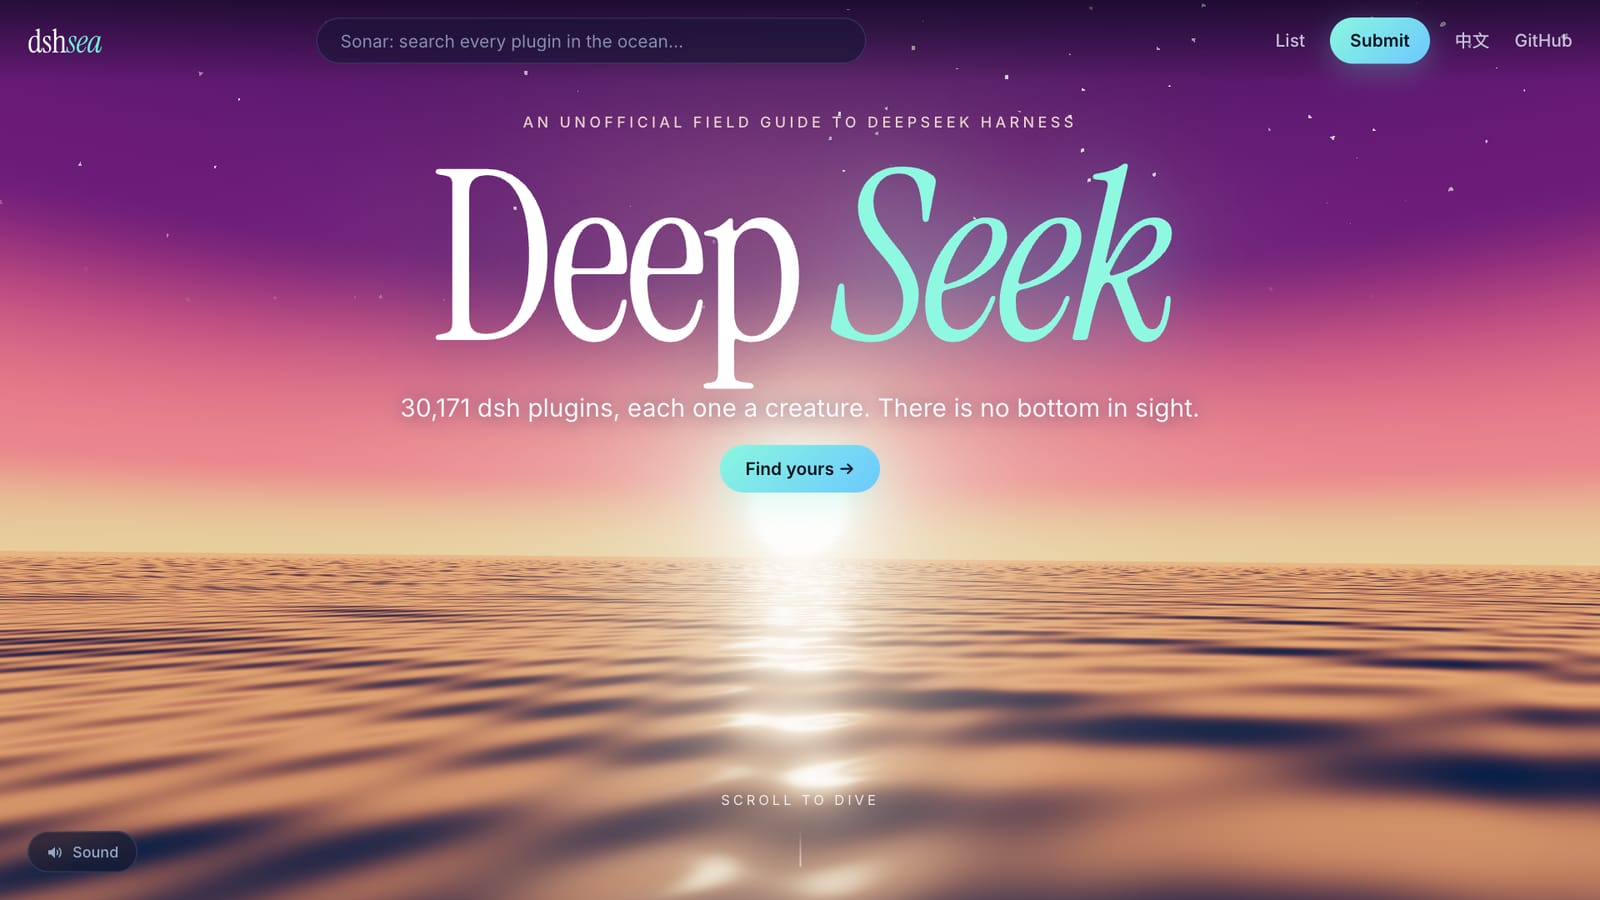
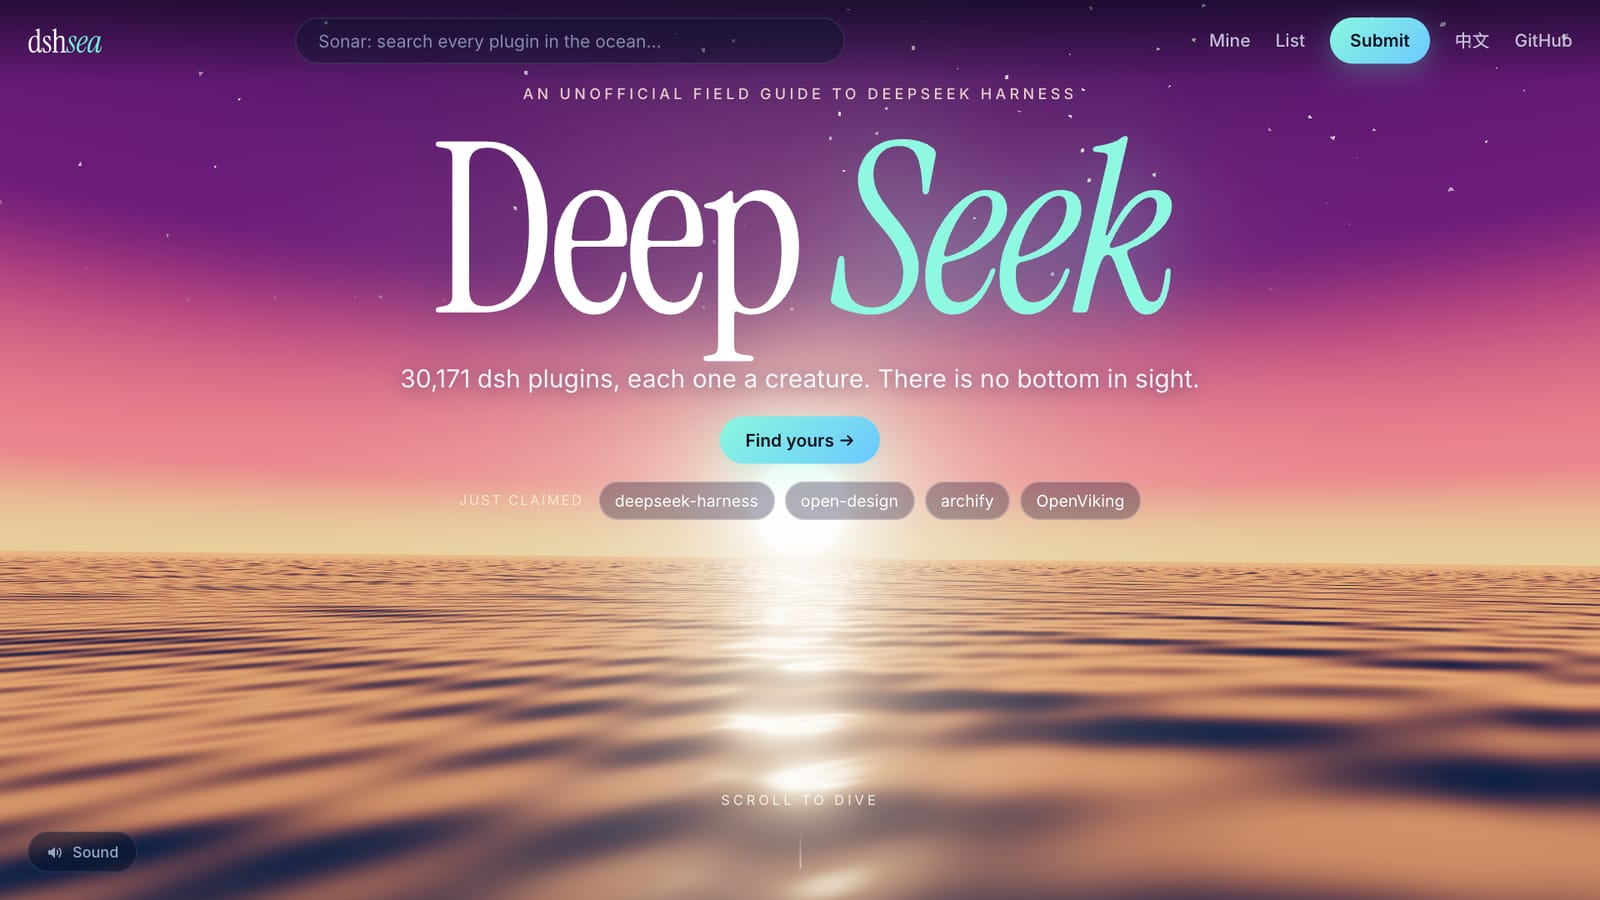
Welcome reef: put the newest claims where every dive begins
The eight most recently claimed creatures now swim right under the
surface, names lit and marked NEW, until newer claims take their place.
The home page names the latest four. The wild ocean starts at 260 m to
leave them room.

diff --git a/src/components/ocean3d.ts b/src/components/ocean3d.ts
@@ -20,9 +20,12 @@ type Creature = {
   group: THREE.Group; mesh: THREE.Mesh; mat: THREE.ShaderMaterial; halo: THREE.Sprite; label: THREE.Sprite;
   base: THREE.Vector3; az: number; frac: number; size: number; shape: THREE.Vector3; phase: number; speed: number; swims: boolean;
   hay: string; near: number; revealAt: number; spinAt: number; known: boolean; screen: Screen;
+  /** Welcome reef: the depth this copy is pinned at, instead of where the creature really lives. */
+  pin: number | null;
 };
 type Payload = {
   base: string;
+  fresh: Row[];
   meta: { count: number; chunk: number; landmarks: [number, string, number][] };
   claimed: Record<string, number>;
   t: Record<string, any>;
@@ -30,7 +33,7 @@ type Payload = {
 
 const K = 0.053; // world units per metre
 const START_DEPTH = -34; // the diver starts above the water
-const GHOST_DEPTH = 90;
+const GHOST_DEPTH = 244; // just below the welcome reef
 const WINDOW = 820; // metres of ocean kept alive above and below the diver
 const LOG_KEY = 'dshsea-log-v1';
 
@@ -343,9 +346,10 @@ export async function initOcean3D() {
     // Wider than the view: there is always more off to the side if you look around.
     c.az = (u * 2 - 1) * spread;
     const r = (portrait ? 15 : 9.5) + c.frac * (portrait ? 17 : 10) + c.size * 1.2;
-    c.base.set(Math.sin(c.az) * r, -c.depth * K + (frac(c.index * 0.377) - 0.5) * 1.2, -Math.cos(c.az) * r);
+    c.base.set(Math.sin(c.az) * r, -(c.pin ?? c.depth) * K + (frac(c.index * 0.377) - 0.5) * 1.2, -Math.cos(c.az) * r);
   }
-  function spawn(index: number, row: Row) {
+  /** `pin` puts a copy of a claimed creature on the welcome reef (index < 0) at that depth. */
+  function spawn(index: number, row: Row, pin: number | null = null) {
     const repoOrUrl = row[0];
     const isUrl = repoOrUrl.startsWith('http');
     const key = repoOrUrl.toLowerCase().replace(/\/$/, '');
@@ -369,7 +373,8 @@ export async function initOcean3D() {
     }));
     halo.scale.setScalar(Math.min(size * 5, 9));
     halo.renderOrder = -1;
-    const { tex, aspect } = labelTexture(name, `★ ${fmtStars(stars)}`);
+    const { tex, aspect } = labelTexture(name, pin === null ? `★ ${fmtStars(stars)}` : `✦ ${t.reefTag} · ★ ${fmtStars(stars)}`);
+    if (pin !== null) (halo.material as THREE.SpriteMaterial).color.set(0xffd27a);
     const label = new THREE.Sprite(labelMaterial(tex));
     label.scale.set(aspect, 1, 1);
     label.position.y = -size * spec.drop - 0.75;
@@ -378,7 +383,7 @@ export async function initOcean3D() {
     group.add(halo, label);
     scene.add(group);
     const c: Creature = {
-      index, key, name, desc, stars, depth: depthOf(index), url: isUrl ? repoOrUrl : `https://github.com/${repoOrUrl}`, repo: isUrl ? null : repoOrUrl,
+      index, key, name, desc, stars, pin, depth: depthOf(pin === null ? index : payload.claimed[row[3]!] ?? 0), url: isUrl ? repoOrUrl : `https://github.com/${repoOrUrl}`, repo: isUrl ? null : repoOrUrl,
       slug: row[3] ?? null, species: tr.species, rarity: tr.rarity, hue: tr.hue,
       group, mesh, mat, halo, label, base: new THREE.Vector3(), az: 0, frac: frac(index * 0.7548776662), size, shape, phase,
       speed: 0.2 + ((tr.hue * 7) % 100) / 520, swims: spec.swims, near: 0, revealAt: -99, spinAt: -99, known: !!log.seen[key], screen: null,
@@ -387,7 +392,7 @@ export async function initOcean3D() {
     place(c);
     group.position.copy(c.base);
     live.set(index, c);
-    if (pendingOpen === index) {
+    if (pendingOpen >= 0 && pendingOpen === index) {
       pendingOpen = -1;
       openCard(c);
     }
@@ -781,7 +786,16 @@ export async function initOcean3D() {
         budget--;
       }
     }
-    for (const c of live.values()) if (c.index < i0 - 6 || c.index > i1 + 6) despawn(c);
+    // The welcome reef: the newest claims, pinned where every dive begins.
+    if (!above && camDepth < 700) {
+      let budget = 2;
+      for (let k = 0; k < payload.fresh.length && budget > 0; k++) {
+        if (live.has(-1 - k)) continue;
+        spawn(-1 - k, payload.fresh[k], 44 + k * 26);
+        budget--;
+      }
+    }
+    for (const c of live.values()) if (c.pin !== null ? camDepth > 1000 : c.index < i0 - 6 || c.index > i1 + 6) despawn(c);
 
     for (const c of live.values()) {
       c.group.visible = !above;
@@ -813,14 +827,15 @@ export async function initOcean3D() {
       const reveal = clamp(1 - (time - c.revealAt) / 6, 0, 1);
       // Identifying a creature takes light: the lamp, a sonar ping, or meeting it up close.
       if (!c.known && (lampNear > 0.55 || reveal > 0.9)) discover(c);
-      const deepGlow = 0.1 + 0.75 * smooth(150, 2600, c.depth);
+      const deepGlow = 0.1 + 0.75 * smooth(150, 2600, c.pin ?? c.depth);
       c.mat.uniforms.uGlow.value = Math.min(1.1, deepGlow + c.near * 0.18 + lampNear * 0.2 + reveal * 0.25 + (query && isMatch ? 0.3 + Math.sin(time * 5) * 0.15 : 0));
       c.mat.uniforms.uDim.value += ((isMatch ? 0 : 0.88) - c.mat.uniforms.uDim.value) * 0.15;
       const s = (c.screen = toScreen(g, c.size));
       const dist = s ? s.d : 99;
-      (c.halo.material as THREE.SpriteMaterial).opacity = isMatch ? (0.04 + deepGlow * 0.2 + c.near * 0.08 + reveal * 0.1) * (0.35 + 0.65 * smooth(70, 12, dist)) : 0;
+      (c.halo.material as THREE.SpriteMaterial).opacity = isMatch ? (0.04 + (c.pin !== null ? 0.16 : deepGlow * 0.2) + c.near * 0.08 + reveal * 0.1) * (0.35 + 0.65 * smooth(70, 12, dist)) : 0;
       // Names stay hidden until a creature has been discovered.
-      const nearLabel = c.known ? (mobile ? smooth(38, 24, dist) : smooth(22, 13, dist)) : 0;
+      // ...except on the welcome reef, where the newcomers are introduced to everyone.
+      const nearLabel = c.pin !== null ? smooth(46, 30, dist) : c.known ? (mobile ? smooth(38, 24, dist) : smooth(22, 13, dist)) : 0;
       const lm = c.label.material as THREE.SpriteMaterial;
       lm.opacity += ((isMatch ? Math.max(nearLabel, c.near, reveal, lampNear, query ? 1 : 0) : 0.08) - lm.opacity) * ease(6);
     }

diff --git a/src/lib/i18n.ts b/src/lib/i18n.ts
@@ -9,6 +9,9 @@ const en = {
   heroTitle2: 'Seek',
   heroSub: (n: string) => `${n} dsh plugins, each one a creature. There is no bottom in sight.`,
   heroCta: 'Find yours',
+  justClaimed: 'Just claimed',
+  reefTag: 'NEW',
+  reefNote: 'The eight most recently claimed creatures swim right under the surface, where every diver enters.',
   scrollHint: 'scroll to dive',
   navList: 'List',
   navMe: 'Mine',
@@ -132,7 +135,7 @@ const en = {
   step2: 'Open a PR',
   step2Body: 'Add data/projects/your-project.yaml. CI checks the format in seconds; we merge anything real, public and related to DeepSeek Harness.',
   step3: 'Make it yours',
-  step3Body: 'Claimed creatures get their own page, a share card, a README badge, your own description, and the species you pick.',
+  step3Body: 'Claimed creatures get their own page, a share card, a README badge, your own description, and the species you pick. New claims also swim right under the surface, where every diver enters, and are named on the home page.',
   openPr: 'Create the file on GitHub',
   speciesTitle: 'Pick your species',
   speciesSub: 'Wild creatures get a species by chance, weighted by stars. Claim yours and you can choose any of these with the species field. Stars still decide size; age decides depth.',
@@ -172,6 +175,9 @@ const zh: typeof en = {
   heroTitle2: 'Seek',
   heroSub: (n: string) => `${n} 个 dsh 插件，每个都是一只生物。这片海没有底。`,
   heroCta: '找到我的那只',
+  justClaimed: '刚刚认领',
+  reefTag: '新',
+  reefNote: '最近认领的 8 只生物会游在海面正下方，也就是每个潜水员入水的地方。',
   scrollHint: '向下滚动下潜',
   navList: '列表',
   navMe: '我的',
@@ -294,7 +300,7 @@ const zh: typeof en = {
   step2: '提交 PR',
   step2Body: '新建 data/projects/your-project.yaml。CI 几秒内检查格式，只要项目真实、公开、和 DeepSeek Harness 相关就会合并。',
   step3: '变成你的',
-  step3Body: '认领后的生物拥有独立页面、分享卡片、README 徽章、你自己写的简介，以及你挑选的物种。',
+  step3Body: '认领后的生物拥有独立页面、分享卡片、README 徽章、你自己写的简介，以及你挑选的物种。新认领的还会游在海面正下方（每个人入水的地方），并出现在首页。',
   openPr: '在 GitHub 上创建文件',
   speciesTitle: '挑选你的物种',
   speciesSub: '野生生物的物种是随机的，按 star 加权。认领之后，你可以用 species 字段从下面任选一种。star 依然决定体型，年龄决定深度。',

diff --git a/src/lib/projects.ts b/src/lib/projects.ts
@@ -63,6 +63,13 @@ export function getCatalog() {
   return (cache ??= build());
 }
 export const getProjects = () => getCatalog().projects;
+/**
+ * The welcome reef: the most recently claimed creatures swim just under the surface, where every
+ * diver enters, until newer claims take their place. Ties on the date go to the bigger project.
+ */
+export const REEF_SIZE = 8;
+export const getFresh = () =>
+  [...getProjects()].sort((a, b) => b.added.localeCompare(a.added) || b.stars - a.stars || a.slug.localeCompare(b.slug)).slice(0, REEF_SIZE);
 
 /** A chunk of the ocean as the browser receives it. Wild rows are [repo, stars, desc]; claimed rows carry more. */
 export function chunkRows(n: number) {

diff --git a/src/lib/species.ts b/src/lib/species.ts
@@ -68,7 +68,8 @@ export const tintDeg = (hue: number) => (((hue - REF_HUE) % 360) + 360) % 360;
 export const tintStyle = (hue: number) => `--tint:${tintDeg(hue)}deg`;
 
 // Depth is seniority and has no floor: every project sits STEP metres below the next newer one.
-export const DEPTH_START = 200;
+// The first 260 m are kept clear for the welcome reef (the newest claims) and the "your project?" ghost.
+export const DEPTH_START = 260;
 export const DEPTH_STEP = 32;
 export const depthOf = (index: number) => DEPTH_START + index * DEPTH_STEP;
 

diff --git a/README.ja.md b/README.ja.md
@@ -11,7 +11,7 @@ DeepSeek Harness のプラグインは、底なしの海のどこかにいる生
 | | |
 | --- | --- |
 | [![](docs/shallow.jpg)](https://dshsea.com) | [![](docs/deep.jpg)](https://dshsea.com) |
-| **潜る。** スクロールやスワイプ、あるいはボタンを押し続けて何キロも落ちていきます。名前は、ライトかソナーが当たるまで隠れています。 | **底は見えない。** いちばん新しいプラグインは水深 200 m。古くなるごとに 32 m ずつ深くなり、水の色も変わっていきます。 |
+| **潜る。** スクロールやスワイプ、あるいはボタンを押し続けて何キロも落ちていきます。名前は、ライトかソナーが当たるまで隠れています。 | **底は見えない。** いちばん新しいプラグインは水深 260 m。古くなるごとに 32 m ずつ深くなり、水の色も変わっていきます。 |
 | [![](docs/sonar.jpg)](https://dshsea.com) | [![](docs/card.jpg)](https://dshsea.com) |
 | **ソナー。** すべてのプラグインを名前で検索して、その場所へ直行できます。 | **出会う。** どの生き物もリポジトリにリンクし、進化まであと何スター必要かを示します。作者は自分のものとして登録できます。 |
 | [![](docs/field-guide.jpg)](https://dshsea.com) | [![](docs/bounty.jpg)](https://dshsea.com) |
@@ -24,7 +24,7 @@ DeepSeek Harness のプラグインは、底なしの海のどこかにいる生
 ## 生き物の集まり方
 
 - **野生の生き物。** 週 1 回の GitHub Action が `dsh-plugin` トピックのリポジトリをすべて `data/wild.json` に取り込み、自動的に海に現れます。
-- **登録済みの生き物。** 作者が [`data/projects/`](data/projects) に YAML ファイルを 1 つ追加して PR を送ると登録できます。専用ページ、共有カード、バッジが付き、種も選べます。詳しくは [CONTRIBUTING.md](CONTRIBUTING.md) を参照してください。
+- **登録済みの生き物。** 作者が [`data/projects/`](data/projects) に YAML ファイルを 1 つ追加して PR を送ると登録できます。専用ページ、共有カード、バッジが付き、種も選べます。さらに、直近に登録された 8 匹は**ウェルカムリーフ**（全員が潜り始める水面直下）を泳ぎ、トップページにも名前が載ります。詳しくは [CONTRIBUTING.md](CONTRIBUTING.md) を参照してください。
 
 ## 参加する
 

diff --git a/README.ko.md b/README.ko.md
@@ -11,7 +11,7 @@ DeepSeek Harness 플러그인은 모두 끝없는 바다 어딘가에 사는 생
 | | |
 | --- | --- |
 | [![](docs/shallow.jpg)](https://dshsea.com) | [![](docs/deep.jpg)](https://dshsea.com) |
-| **잠수.** 스크롤하거나 밀어 올리거나, 버튼을 누른 채로 몇 킬로미터씩 내려갑니다. 이름은 조명이나 소나가 닿기 전까지 숨겨져 있습니다. | **바닥이 보이지 않습니다.** 가장 새로운 플러그인은 수심 200 m에 있고, 오래될수록 32 m씩 더 깊이 삽니다. 내려갈수록 물빛도 달라집니다. |
+| **잠수.** 스크롤하거나 밀어 올리거나, 버튼을 누른 채로 몇 킬로미터씩 내려갑니다. 이름은 조명이나 소나가 닿기 전까지 숨겨져 있습니다. | **바닥이 보이지 않습니다.** 가장 새로운 플러그인은 수심 260 m에 있고, 오래될수록 32 m씩 더 깊이 삽니다. 내려갈수록 물빛도 달라집니다. |
 | [![](docs/sonar.jpg)](https://dshsea.com) | [![](docs/card.jpg)](https://dshsea.com) |
 | **소나.** 모든 플러그인을 이름으로 검색해 바로 그곳으로 이동합니다. | **만나기.** 각 생물은 자기 저장소로 연결되고, 진화까지 필요한 스타 수를 보여 주며, 작성자가 등록할 수 있습니다. |
 | [![](docs/field-guide.jpg)](https://dshsea.com) | [![](docs/bounty.jpg)](https://dshsea.com) |
@@ -24,7 +24,7 @@ DeepSeek Harness 플러그인은 모두 끝없는 바다 어딘가에 사는 생
 ## 생물이 모이는 방식
 
 - **야생 생물.** 매주 실행되는 GitHub Action이 `dsh-plugin` 토픽이 붙은 모든 저장소를 `data/wild.json`으로 수집하고, 자동으로 바다에 나타납니다.
-- **등록된 생물.** 작성자가 [`data/projects/`](data/projects)에 YAML 파일 하나를 추가해 PR을 보내면 등록됩니다. 전용 페이지, 공유 카드, 배지가 생기고 종도 고를 수 있습니다. 자세한 내용은 [CONTRIBUTING.md](CONTRIBUTING.md)를 참고하세요.
+- **등록된 생물.** 작성자가 [`data/projects/`](data/projects)에 YAML 파일 하나를 추가해 PR을 보내면 등록됩니다. 전용 페이지, 공유 카드, 배지가 생기고 종도 고를 수 있습니다. 가장 최근에 등록된 8마리는 **웰컴 리프**(모든 다이버가 잠수를 시작하는 수면 바로 아래)에서 헤엄치고, 홈 화면에도 이름이 실립니다. 자세한 내용은 [CONTRIBUTING.md](CONTRIBUTING.md)를 참고하세요.
 
 ## 참여하기
 

diff --git a/README.md b/README.md
@@ -11,7 +11,7 @@ Every DeepSeek Harness plugin is a creature somewhere in a bottomless ocean: mor
 | | |
 | --- | --- |
 | [![](docs/shallow.jpg)](https://dshsea.com) | [![](docs/deep.jpg)](https://dshsea.com) |
-| **Dive.** Scroll, swipe, or hold the button and fall for kilometres. Names stay hidden until your lamp or a sonar ping identifies a creature. | **No bottom in sight.** The newest plugin swims at 200 m; every older one lives 32 m deeper. The water changes colour as you go. |
+| **Dive.** Scroll, swipe, or hold the button and fall for kilometres. Names stay hidden until your lamp or a sonar ping identifies a creature. | **No bottom in sight.** The newest plugin swims at 260 m; every older one lives 32 m deeper. The water changes colour as you go. |
 | [![](docs/sonar.jpg)](https://dshsea.com) | [![](docs/card.jpg)](https://dshsea.com) |
 | **Sonar.** Search every plugin by name and jump straight to it. | **Meet it.** Each creature links to its repo, shows how many stars it needs to evolve, and can be claimed by its author. |
 | [![](docs/field-guide.jpg)](https://dshsea.com) | [![](docs/bounty.jpg)](https://dshsea.com) |
@@ -24,7 +24,7 @@ Also in the water: **bottles** (leave a note at any depth for the next diver) an
 ## How it fills up
 
 - **Wild creatures.** A weekly GitHub Action crawls every repo tagged `dsh-plugin` into `data/wild.json`. They all appear in the ocean automatically.
-- **Claimed creatures.** Authors claim theirs by adding one YAML file under [`data/projects/`](data/projects) in a PR. Claimed creatures get a page, a share card, a badge and a species of their choice. See [CONTRIBUTING.md](CONTRIBUTING.md).
+- **Claimed creatures.** Authors claim theirs by adding one YAML file under [`data/projects/`](data/projects) in a PR. Claimed creatures get a page, a share card, a badge and a species of their choice. The eight newest claims also swim on the **welcome reef**, right under the surface where every diver enters, and are named on the home page. See [CONTRIBUTING.md](CONTRIBUTING.md).
 
 ## Contributing
 

diff --git a/README.zh-CN.md b/README.zh-CN.md
@@ -11,7 +11,7 @@
 | | |
 | --- | --- |
 | [![](docs/shallow.jpg)](https://dshsea.com) | [![](docs/deep.jpg)](https://dshsea.com) |
-| **下潜。** 滚轮、滑动，或者按住按钮一路坠落几公里。生物的名字默认隐藏，被你的灯或声呐照到才会显示。 | **看不到底。** 最新的插件游在 200 米，每老一个就再深 32 米。越往下，水色也在变。 |
+| **下潜。** 滚轮、滑动，或者按住按钮一路坠落几公里。生物的名字默认隐藏，被你的灯或声呐照到才会显示。 | **看不到底。** 最新的插件游在 260 米，每老一个就再深 32 米。越往下，水色也在变。 |
 | [![](docs/sonar.jpg)](https://dshsea.com) | [![](docs/card.jpg)](https://dshsea.com) |
 | **声呐。** 按名字搜索任何一个插件，直接传送过去。 | **认识它。** 每只生物都链接到自己的仓库，显示还差多少 star 进化，作者可以认领。 |
 | [![](docs/field-guide.jpg)](https://dshsea.com) | [![](docs/bounty.jpg)](https://dshsea.com) |
@@ -24,7 +24,7 @@
 ## 生物从哪来
 
 - **野生生物。** 每周一次的 GitHub Action 会把所有带 `dsh-plugin` topic 的仓库抓进 `data/wild.json`，它们会自动出现在海里。
-- **已认领的生物。** 作者在 [`data/projects/`](data/projects) 下加一个 YAML 文件并提 PR 即可认领。认领后拥有独立页面、分享卡片、徽章，还能自选物种。详见 [CONTRIBUTING.md](CONTRIBUTING.md)。
+- **已认领的生物。** 作者在 [`data/projects/`](data/projects) 下加一个 YAML 文件并提 PR 即可认领。认领后拥有独立页面、分享卡片、徽章，还能自选物种。最新认领的 8 只还会出现在**迎新礁**：海面正下方、每个潜水员入水的地方，并在首页点名。详见 [CONTRIBUTING.md](CONTRIBUTING.md)。
 
 ## 参与
 

diff --git a/CONTRIBUTING.md b/CONTRIBUTING.md
@@ -13,6 +13,7 @@ Every wild creature has a page at `dshsea.com/r/<owner>/<repo>` that links to th
 - their own page (`dshsea.com/p/<name>`), share card and README badge
 - your own description, in English and optionally Chinese
 - the species you pick
+- a spell on the **welcome reef**: the eight most recently claimed creatures swim right under the surface, where every diver enters, with their names lit, and are listed on the home page until newer claims take their place
 
 To claim, add one YAML file to [`data/projects/`](data/projects) and open a pull request. The quickest way is the **Claim it** button on a creature's card, or [dshsea.com/submit](https://dshsea.com/submit).
 
@@ -46,7 +47,7 @@ x: your_x_handle
 
 - **Species.** Wild creatures get one by chance, from a pool that depends on stars: common (under 20), rare (20+), epic (1,000+). Claimed creatures can pick any of these with `species`: `fish`, `jellyfish`, `seahorse`, `pufferfish`, `eel`, `crab`, `starfish`, `shrimp`, `nudibranch`, `anglerfish`, `turtle`, `octopus`, `squid`, `cuttlefish`, `lionfish`, `sunfish`, `nautilus`, `shark`, `hammerhead`, `manta`, `narwhal`, `dolphin`, `swordfish`. At 100k+ stars every project becomes a whale; that one is earned, not picked.
 - **Size** comes from stars.
-- **Depth** comes from age and has no limit. The newest project swims 200 m down; each older one lives 32 m below the next. Every new plugin pushes the whole ocean a little deeper.
+- **Depth** comes from age and has no limit. The newest project swims 260 m down; each older one lives 32 m below the next. Every new plugin pushes the whole ocean a little deeper.
 - **Colour, pattern and proportions** are derived from the repo name, so no two creatures look alike.
 
 ## House rules
